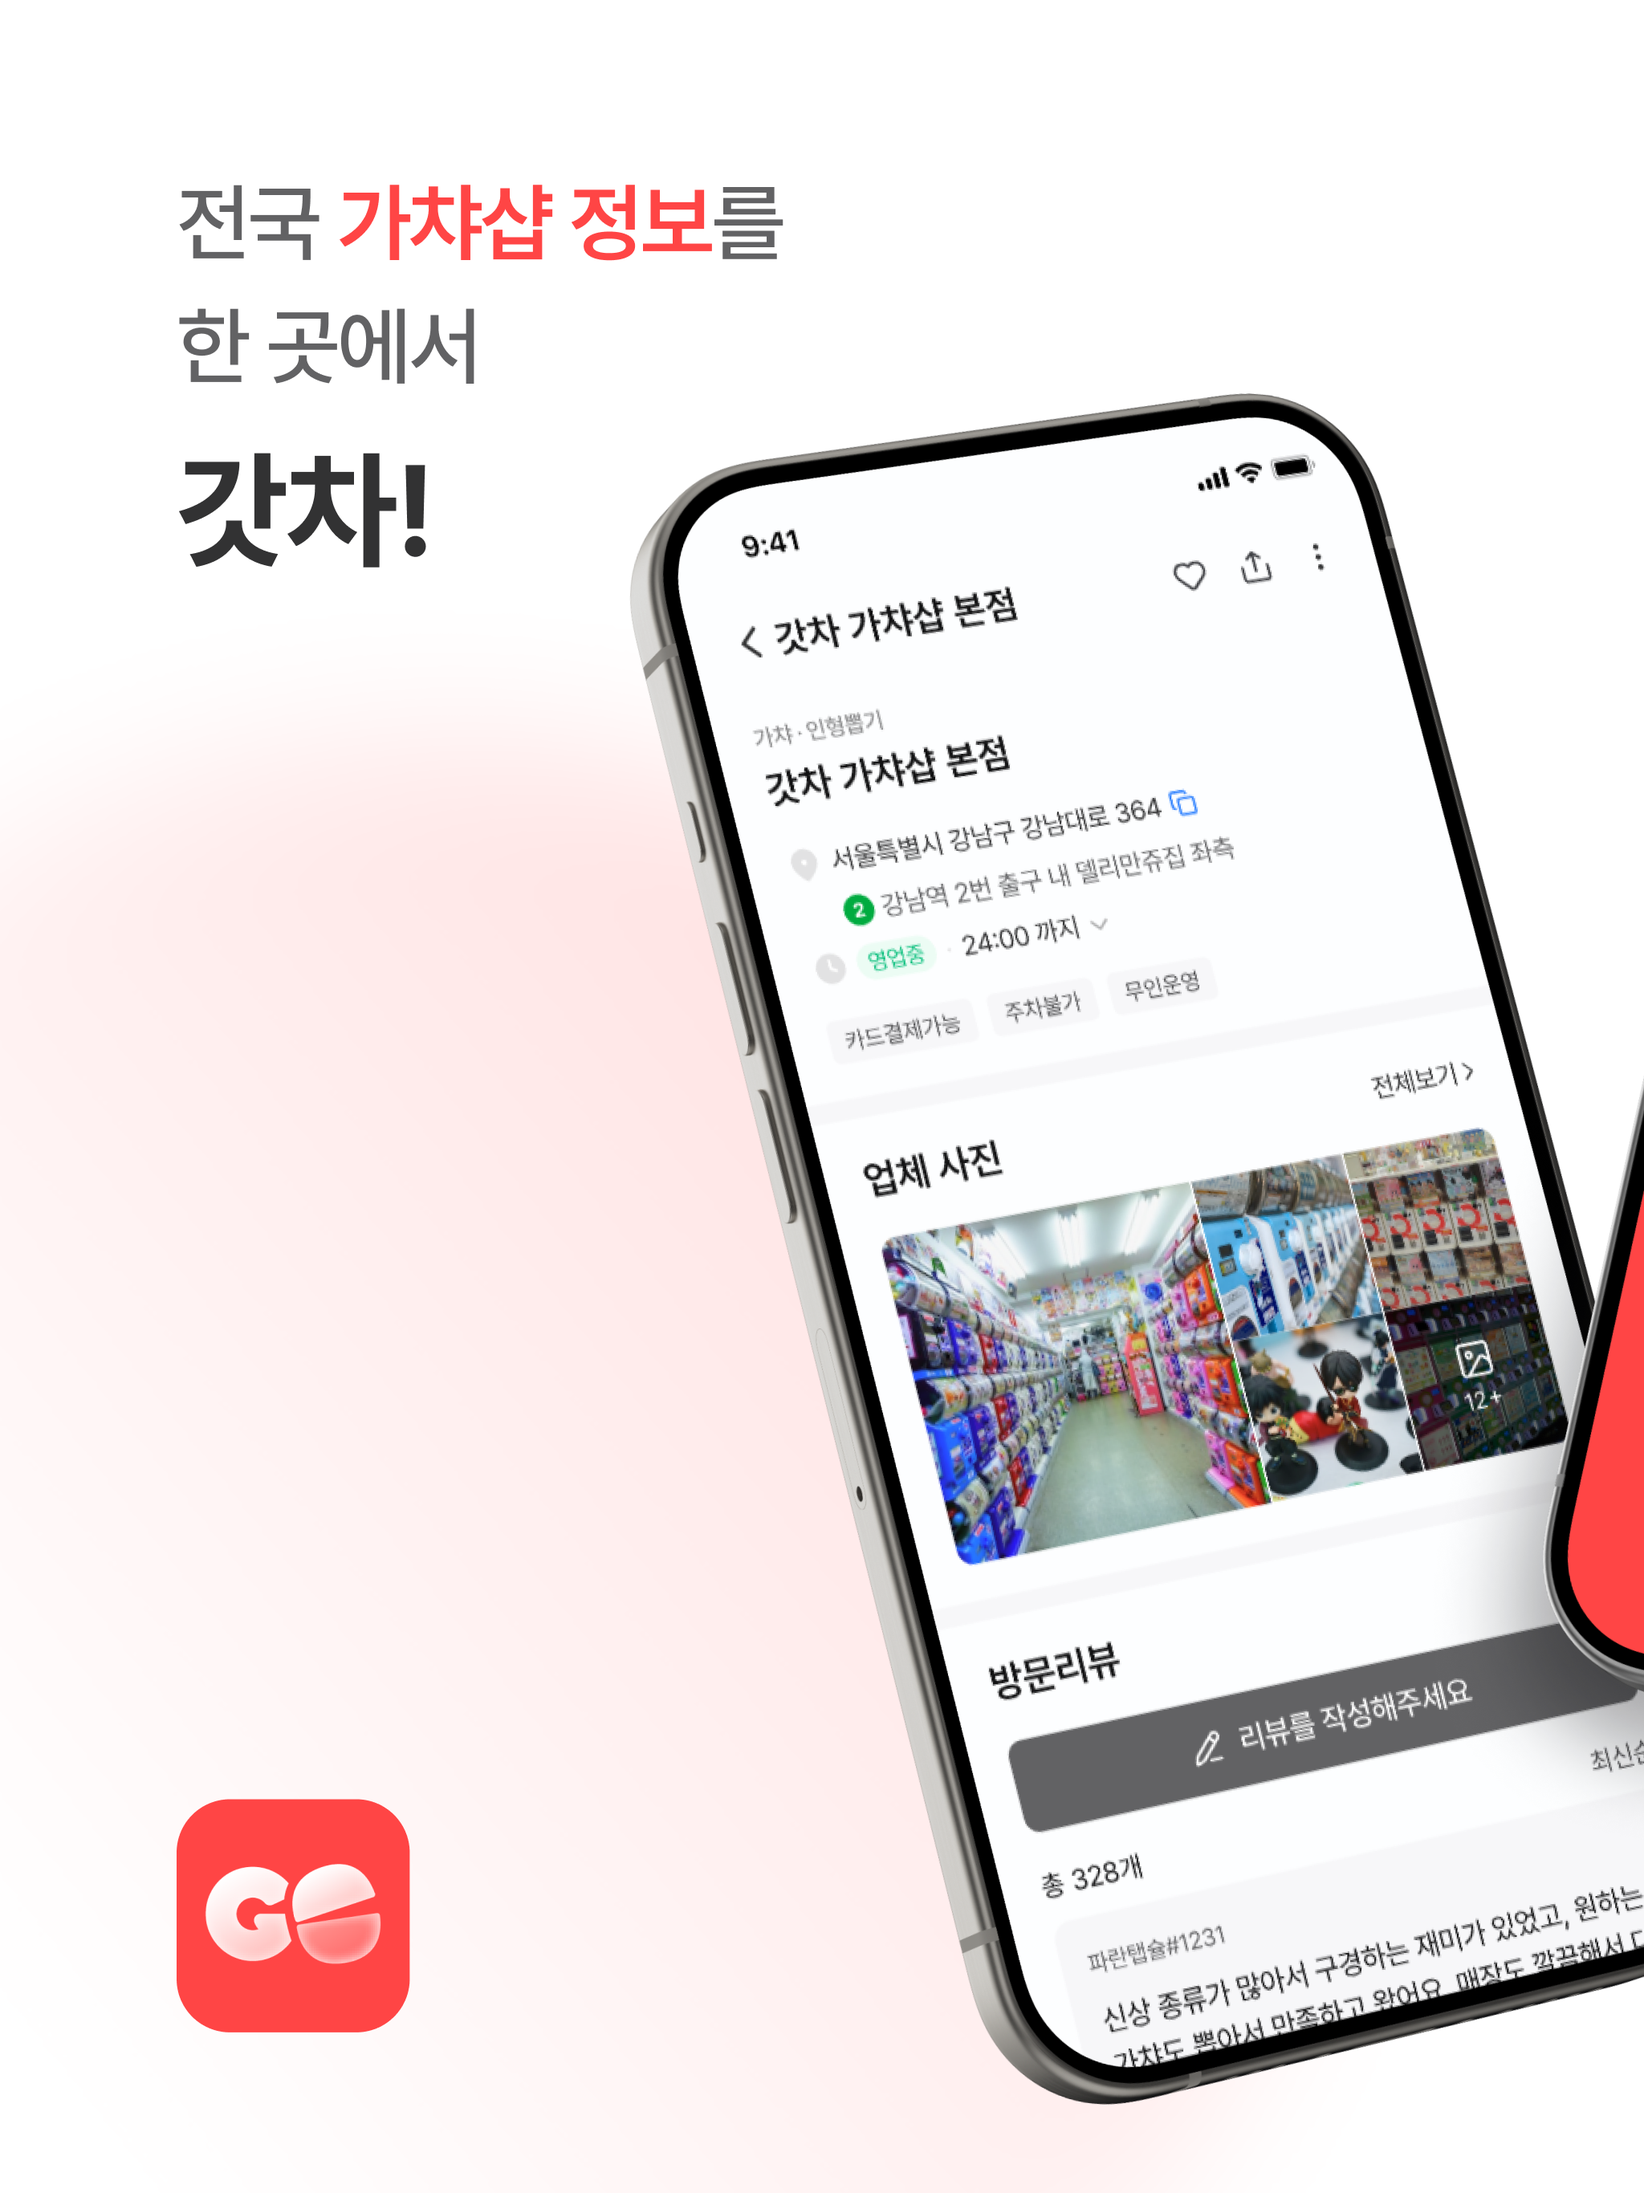
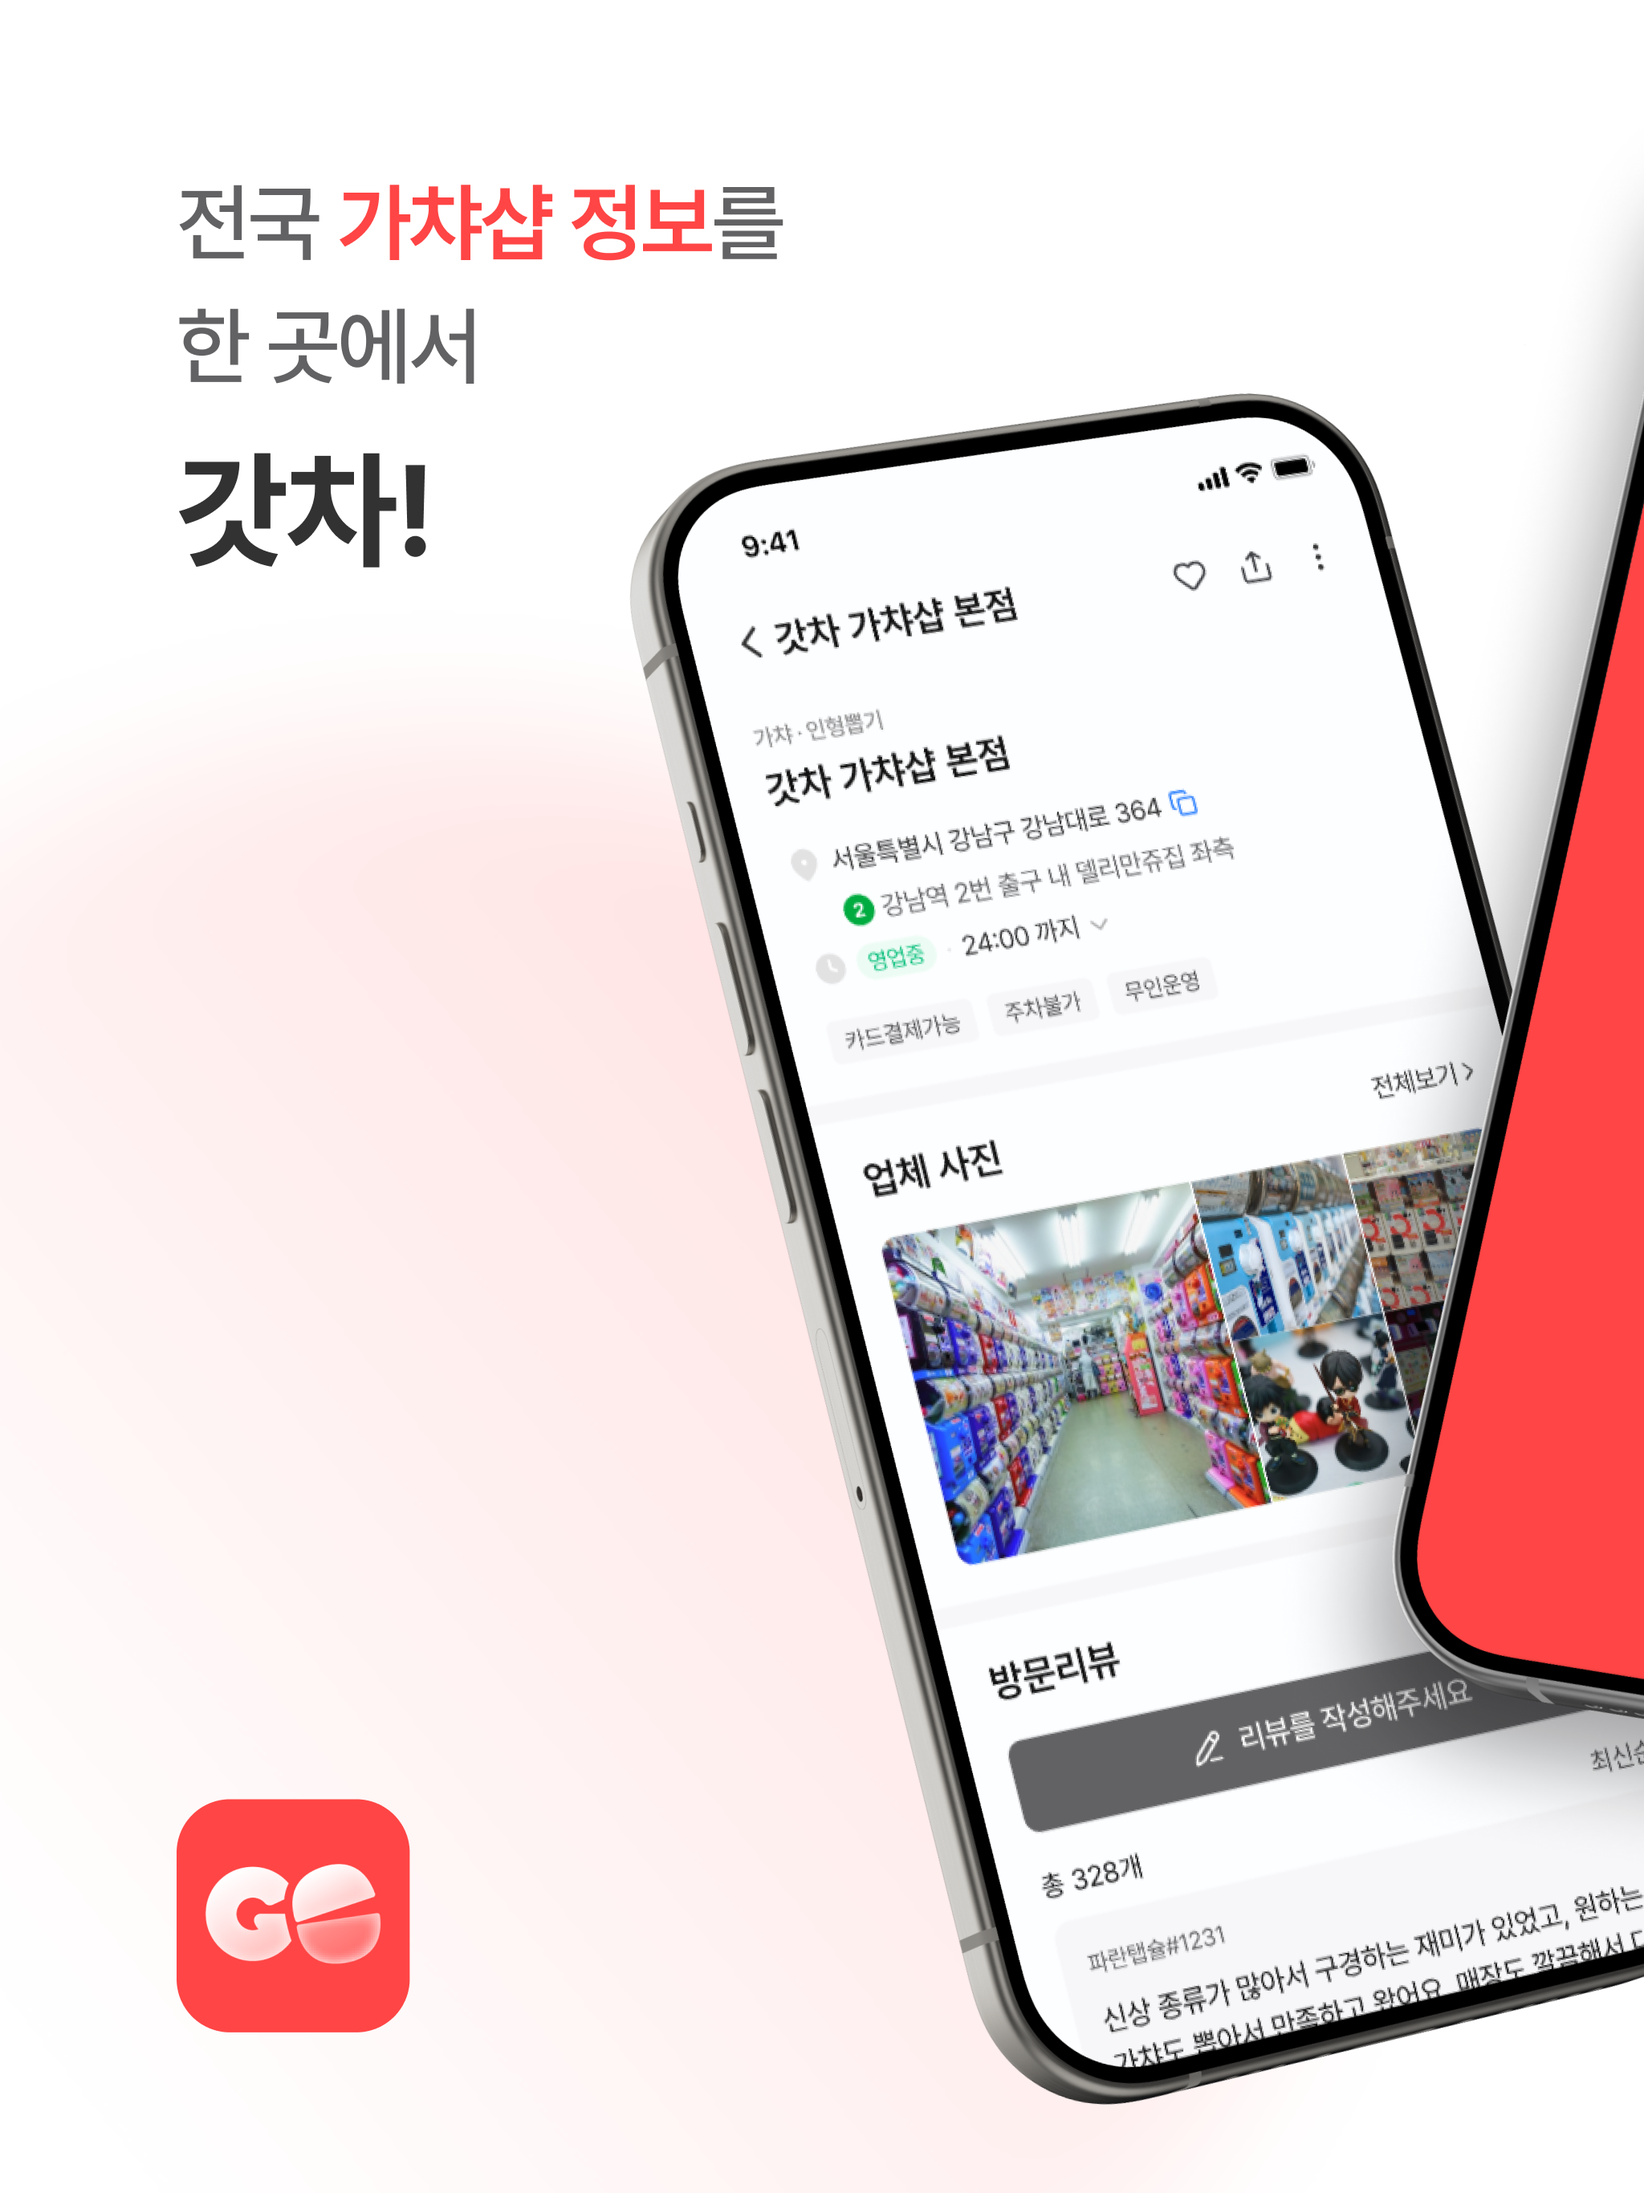
docs: README 썸네일을 아이패드 인트로 2장 나란히 배치로 교체 및 스크린샷 갱신 (#164)
* docs: README 썸네일을 아이패드 인트로 2장 나란히 배치로 교체 및 스크린샷 갱신

* fix: README 썸네일 이미지에 alt 속성 추가 (MD045)

---------

Changed region(s): [[0.8125, 0.1245, 1.0, 0.8089]]

diff --git a/README.md b/README.md
@@ -1,6 +1,9 @@
 # GOTCHA! – 가챠샵 지도 서비스
 
-<img src="appstore-assets/screenshots/thumbnail.png" width="100%" />
+<p align="center">
+  <img src="appstore-assets/screenshots/iPad13Air/앱미리보기(아이패드)_1인트로.png" alt="GOTCHA! 앱 인트로 화면 1" width="49%" />
+  <img src="appstore-assets/screenshots/iPad13Air/앱미리보기(아이패드)_2인트로.png" alt="GOTCHA! 앱 인트로 화면 2" width="49%" />
+</p>
 
 가챠샵(Gacha Shop)을 지도 기반으로 탐색하고, 리스트 및 상세 페이지를 통해 매장 정보를 확인할 수 있는 모바일 웹 서비스입니다.
 
